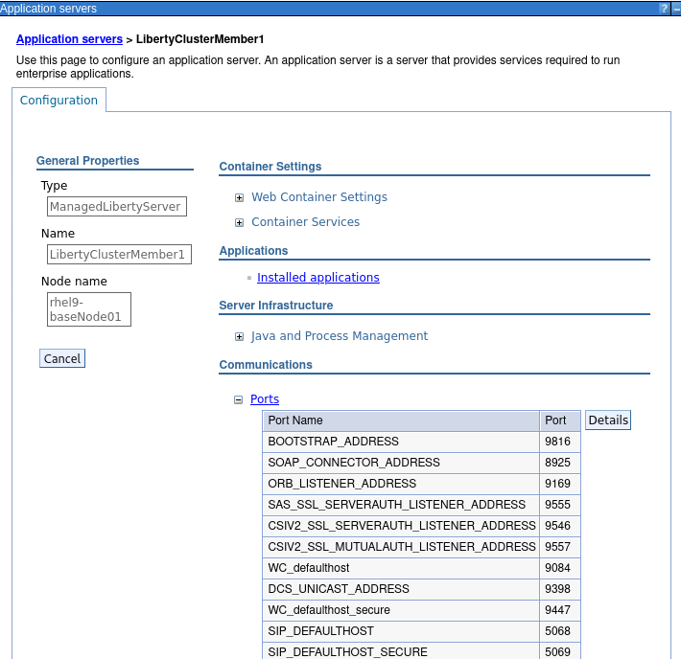
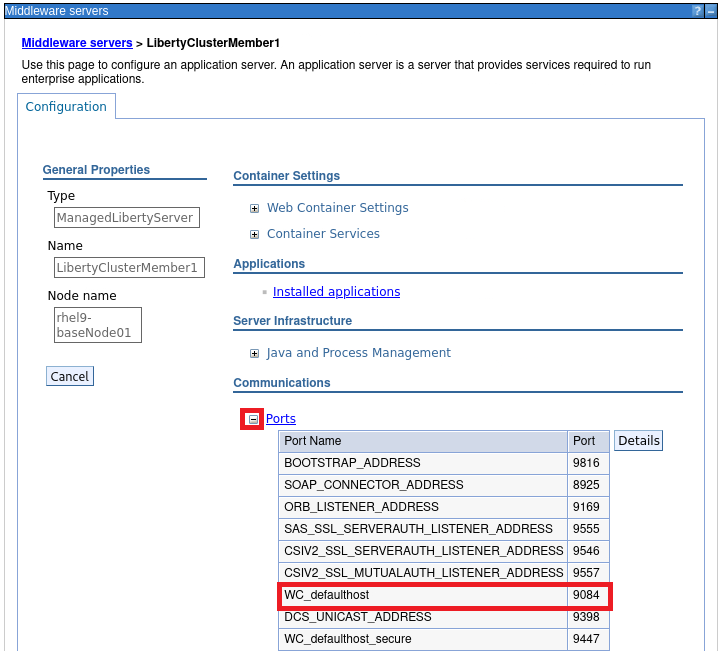
Completed cluster setup

Changed region(s): [[0.0, 0.0, 1.0, 1.0]]

diff --git a/README.md b/README.md
@@ -226,7 +226,7 @@ Otherwise, you will need to reserve an environment for the lab. You can obtain o
 ## Preparation:
 
 <details open>
-<Summary> Download and build the application> </Summary>
+<Summary> Download and build the application </Summary>
 
 ### Prepare and build the maven project
 
@@ -607,7 +607,7 @@ Click on **Proceed** to continue.
 
 ### Set up the managed Liberty cluster
 <details open>
-<Summary> Use the WebSphere Administration Console to create a managed Liberty  cluster. </Summary>
+<Summary> Use the WebSphere Administration Console to create a managed Liberty cluster. </Summary>
 
 You can create a **managed Liberty cluster** via the WebSphere Administration console or via wsadmin. In the lab, you will use the Administration Console to create the cluster. The WebSphere command assistance will providfe the related wsadmin commands.
 
@@ -707,16 +707,79 @@ For the lab we only use the web server and the servers from tWASCluster1.
 		<kbd>![](./images/media/MoRE_reviewCluster4.png)</kbd>
 
 
-10. Review the ports and add missing HTTP ports to the virtual hosts
+8. Review the ports and add missing HTTP ports to the virtual hosts
 
-	<kbd>![](./images/media/MoRE_ports1.png)</kbd>
+	1. Navigate to **Servers > All servers**, then open the server setting for server **LibertyClusterMember1** by clicking on the server name.
+	
+		<kbd>![MoRE_LibertyClusterMember1.png](./images/media/MoRE_LibertyClusterMember1.png)</kbd>
+	
+	2. Expand the **Ports** section and find the port for WC_defaulthost.
+		In the lab environment, the port should be 9084.
 
-	<kbd>![](./images/media/MoRE_ports2.png)</kbd>
+		<kbd>![](./images/media/MoRE_ports1.png)</kbd>
 
-	<kbd>![](./images/media/MoRE_ports3.png)</kbd>
+	3. Navigate to **Servers > All servers**, then open the server setting for server **LibertyClusterMember2** by clicking on the server name.
+	
+		<kbd>![MoRE_LibertyClusterMember2.png](./images/media/MoRE_LibertyClusterMember2.png)</kbd>
+	
+	4. Expand the **Ports** section and find the port for WC_defaulthost.
+		In the lab environment, the port should be 9085.
+
+		<kbd>![](./images/media/MoRE_ports2.png)</kbd>
+
+	5. Navigate to **Environments > Virtual hosts**, then click on **default_host**
+
+		<kbd>![](./images/media/MoRE_ports3.png)</kbd>
+
+	6. Click on **Host Aliases**
+	
+		<kbd>![](./images/media/MoRE_ports4.png)</kbd>
+
+	7. By sorting the ports in decending order, you can see that the ports 9084 and 9085 have not been defined yet.
+	
+		<kbd>![](./images/media/MoRE_ports5.png)</kbd>
+
+		Click on **New** to define the first port.
+
+	8. Enter the port **9084** and click **OK**
+
+		<kbd>![](./images/media/MoRE_ports6.png)</kbd>
+
+	
+	9. Click on **New** to define another port.
+
+		<kbd>![](./images/media/MoRE_ports7.png)</kbd>
 
 
-## Deploy the application
+	9. Enter the port **9085** and click **OK**
+
+		<kbd>![](./images/media/MoRE_ports8.png)</kbd>
+
+	10. Click on **Save** to save the changes.
+
+		<kbd>![](./images/media/MoRE_ports9.png)</kbd>
+
+	11. Wait untill the synchronization has completed, then click on **OK**.
+
+		<kbd>![](./images/media/MoRE_ports10.png)</kbd>
+
+	12. Verify that the two ports have been added.
+
+		<kbd>![](./images/media/MoRE_ports11.png)</kbd>
+
+<br>
+
+**--- This concludes the setup of the MoRE cluster. ---**
+
+</details>
+
+
+## Deploy the application to a managed Liberty cluster
+
+<details open>
+<Summary> Use the WebSphere Administration Console to deploy the WhereAmI appllication to a managed Liberty cluster. </Summary>
+
+
 
 1. Select the updated WhereAmI application (which has the version 2.0.1) and select Liberty as target runtime
 
